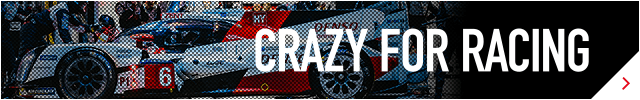
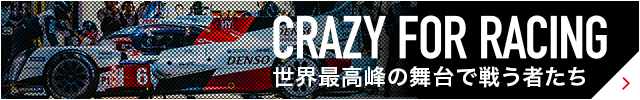
アプリのヘッダフッタ２重になってるのを対応、バナー、ogp imageを修正

diff --git a/public/motorsports/crazy-for-racing/index.html b/public/motorsports/crazy-for-racing/index.html
@@ -5,6 +5,7 @@
 <meta http-equiv="X-UA-Compatible" content="IE=edge">
 <meta name="viewport" content="width=device-width, initial-scale=1, user-scalable=0">
 <script src="/assets/js/libs/sagen/sagen.min.js" id="sagen" data-browser="true"></script>
+<script src="https://sportsbull.jp/assets/js/app_divide.bundle.js"></script>
 <title>CRAZY FOR RACING | スポーツブル (スポブル)</title>
 <meta name="keywords" content="CRAZY FOR RACING,TOYOTA,GAZOO,RACING,スポーツ,メディア,クレイジー,アスリート,ニュース,動画,sports,media,crazy">
 <meta name="description" content="スポーツブル(スポブル)は、インターネットスポーツメディアです。数十社の良質なスポーツ媒体と連携し、話題のスポーツニュース記事、動画をいち早くお届けします。また、ここでしか見ることの出来ないオリジナル記事や、番組を配信しています。スマートフォンはもちろん、PC、タブレットでもお楽しみいただけます。">
@@ -35,6 +36,7 @@
     <!-- / 表示確認用 -->
     <link rel="stylesheet" href="https://sportsbull.jp/assets/css/basic.css" media="only screen and (min-width: 769px)">
     <link rel="stylesheet" href="https://sportsbull.jp/assets/sp/css/basic.css" media="only screen and (max-width: 768px)">
+    
 
   <script type='text/javascript'>
     var googletag = googletag || {};

diff --git a/public/motorsports/crazy-for-racing/assets/css/crazy_racing.css b/public/motorsports/crazy-for-racing/assets/css/crazy_racing.css
@@ -1,5 +1,10 @@
+.undotsushin-ios .head-sec, .undotsushin-ios .foot-sec,
+.undotsushin-android .head-sec,
+.undotsushin-android .foot-sec {
+  display: none; }
+
 /* -----------------------------------------
-sumo
+crazy-for-racing
 ----------------------------------------- */
 .crazy_racing {
   color: #fff;
